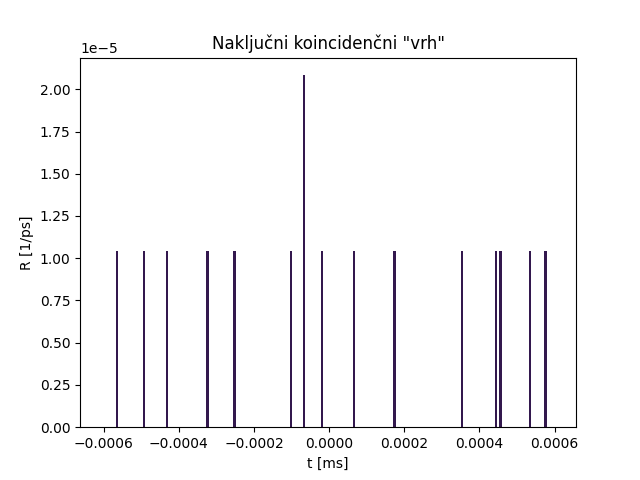
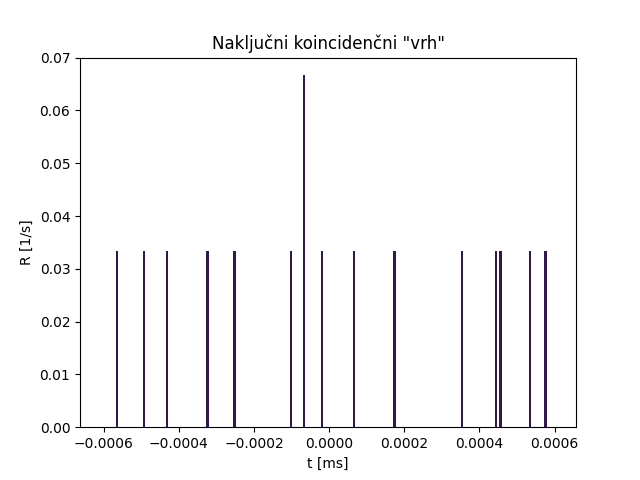
Units fix

Changed region(s): [[0.0312, 0.4375, 0.125, 0.8125], [0.0625, 0.0938, 0.1875, 0.2812], [0.0625, 0.3125, 0.125, 0.375]]

diff --git a/Gamma-Gamma/main_gg.py b/Gamma-Gamma/main_gg.py
@@ -11,7 +11,7 @@ data_TDC = np.column_stack(np.genfromtxt("loc_24-4.txt", skip_header=12))
 time_bins_tdc = data_TDC[0] / 1.0e+09
 counts_tdc = data_TDC[1]
 plt.bar(time_bins_tdc, counts_tdc, color=c1, width=(time_bins_tdc[1]-time_bins_tdc[0]))
-print(np.std(data_TDC[1]))
+# print(np.std(data_TDC[1]))
 
 plt.title(r"Časovna ločljivost TDC")
 plt.xlabel("t [ms]")
@@ -25,11 +25,11 @@ t_mes = 103.6
 time_bins = data_decay[0] / 1.0e+09  # Convert from ps to ms
 pdf = data_decay[2]
 counts = data_decay[1]
-plt.bar(time_bins, pdf, color=c1, width=0.2)
+plt.bar(time_bins, counts/t_mes, color=c1, width=0.2)
 
 plt.title(r"Radioaktivni razpad $^{22}\mathrm{Na}$")
 plt.xlabel("t [ms]")
-plt.ylabel("R [1/ps]")
+plt.ylabel("R [1/s]")
 plt.show()
 
 # Radioactive decay linear plot
@@ -40,7 +40,7 @@ def masking(x, y):
 
 newc, newt = masking(counts, time_bins)
 
-newc /= 30
+newc /= t_mes
 dnewc = np.mean(newc) + np.zeros(len(newc))
 dlog = dnewc / newc
 
@@ -62,6 +62,8 @@ plt.title(r"Lineariziran graf radioaktivnega razpada $^{22}\mathrm{Na}$")
 plt.xlabel("t [ms]")
 plt.ylabel(r"$\ln \left( \frac{\Delta p}{\Delta t}\right)$")
 plt.show()
+
+print(np.exp(fitpar[1]), np.exp(fitpar[1]) * fitcov[1][1])
 print(np.mean(counts)/t_mes)
 
 # Coincidence peaks
@@ -70,11 +72,11 @@ t_corr = data_corr[0] / 1.0e+09
 c_corr = data_corr[1]
 pde_corr = data_corr[2]
 
-plt.bar(t_corr, pde_corr, color=c1, width=(t_corr[1] - t_corr[0]))
+plt.bar(t_corr, c_corr/30, color=c1, width=(t_corr[1] - t_corr[0]))
 
 plt.title(r"Koincidenčni vrh")
 plt.xlabel("t [ms]")
-plt.ylabel("R [1/ps]")
+plt.ylabel("R [1/s]")
 plt.show()
 
 data_corr = np.column_stack(np.genfromtxt("korelacija_rand1.txt", skip_header=12))
@@ -82,11 +84,11 @@ t_corr = data_corr[0] / 1.0e+09
 c_corr = data_corr[1]
 pde_corr = data_corr[2]
 
-plt.bar(t_corr, pde_corr, color=c1, width=(t_corr[1] - t_corr[0]))
+plt.bar(t_corr, c_corr/30, color=c1, width=(t_corr[1] - t_corr[0]))
 
 plt.title("Naključni koincidenčni \"vrh\"")
 plt.xlabel("t [ms]")
-plt.ylabel("R [1/ps]")
+plt.ylabel("R [1/s]")
 plt.show()
 
 # Angle correlation of coincidence peaks
@@ -160,22 +162,22 @@ t_60 = (t_60_1 + t_60_2)/2 / 1.0e+9
 c_60 = (c_60_1 + c_60_2)/2
 p_60 = (p_60_1 + p_60_2)/2
 
-plt.bar(t_0, p_0, width=(t_0[1]-t_0[0]), label=r"$\phi = 0\degree$", color=colors[0])
-plt.bar(t_5, p_5, width=(t_5[1]-t_5[0]), label=r"$\phi = 5\degree$", color=colors[1])
-plt.bar(t_10, p_10, width=(t_10[1]-t_10[0]), label=r"$\phi = 10\degree$", color=colors[2])
-plt.bar(t_15, p_15, width=(t_15[1]-t_15[0]), label=r"$\phi = 15\degree$", color=colors[3])
-plt.bar(t_20, p_20, width=(t_20[1]-t_20[0]), label=r"$\phi = 20\degree$", color=colors[4])
-plt.bar(t_25, p_25, width=(t_25[1]-t_25[0]), label=r"$\phi = 25\degree$", color=colors[5])
-plt.bar(t_30, p_30, width=(t_30[1]-t_30[0]), label=r"$\phi = 30\degree$", color=colors[6])
-plt.bar(t_35, p_35, width=(t_35[1]-t_35[0]), label=r"$\phi = 35\degree$", color=colors[7])
-plt.bar(t_40, p_40, width=(t_40[1]-t_40[0]), label=r"$\phi = 40\degree$", color=colors[8])
-plt.bar(t_45, p_45, width=(t_45[1]-t_45[0]), label=r"$\phi = 45\degree$", color=colors[9])
-plt.bar(t_50, p_50, width=(t_50[1]-t_50[0]), label=r"$\phi = 50\degree$", color=colors[10])
-plt.bar(t_60, p_60, width=(t_60[1]-t_60[0]), label=r"$\phi = 60\degree$", color=colors[11])
+plt.bar(t_0, c_0/30, width=(t_0[1]-t_0[0]), label=r"$\phi = 0\degree$", color=colors[0])
+plt.bar(t_5, c_5/30, width=(t_5[1]-t_5[0]), label=r"$\phi = 5\degree$", color=colors[1])
+plt.bar(t_10, c_10/30, width=(t_10[1]-t_10[0]), label=r"$\phi = 10\degree$", color=colors[2])
+plt.bar(t_15, c_15/30, width=(t_15[1]-t_15[0]), label=r"$\phi = 15\degree$", color=colors[3])
+plt.bar(t_20, c_20/30, width=(t_20[1]-t_20[0]), label=r"$\phi = 20\degree$", color=colors[4])
+plt.bar(t_25, c_25/30, width=(t_25[1]-t_25[0]), label=r"$\phi = 25\degree$", color=colors[5])
+plt.bar(t_30, c_30/30, width=(t_30[1]-t_30[0]), label=r"$\phi = 30\degree$", color=colors[6])
+plt.bar(t_35, c_35/30, width=(t_35[1]-t_35[0]), label=r"$\phi = 35\degree$", color=colors[7])
+plt.bar(t_40, c_40/30, width=(t_40[1]-t_40[0]), label=r"$\phi = 40\degree$", color=colors[8])
+plt.bar(t_45, c_45/30, width=(t_45[1]-t_45[0]), label=r"$\phi = 45\degree$", color=colors[9])
+plt.bar(t_50, c_50/30, width=(t_50[1]-t_50[0]), label=r"$\phi = 50\degree$", color=colors[10])
+plt.bar(t_60, c_60/30, width=(t_60[1]-t_60[0]), label=r"$\phi = 60\degree$", color=colors[11])
 
 plt.title("Kotna korelacija koincidenčnih vrhov")
 plt.xlabel("t [ms]")
-plt.ylabel("R [1/ps]")
+plt.ylabel("R [1/s]")
 plt.legend()
 plt.show()
 
@@ -183,7 +185,7 @@ table = [c_0, c_5, c_10, c_15, c_20, c_25, c_30, c_35, c_40, c_45, c_50, c_60]
 avg_counts = [np.sum(i) for i in table]
 avg_counts_err = [np.sqrt(x) for x in avg_counts]
 angles = [0, 5, 10, 15, 20, 25, 30, 35, 40, 45, 50, 60]
-plt.errorbar(angles, avg_counts, yerr=avg_counts_err,  markersize=2, color=c2,
+plt.errorbar(angles, np.array(avg_counts), yerr=avg_counts_err,  markersize=2, color=c2,
              linestyle='None', marker="o", capsize=2, alpha=1)
 plt.plot(angles, avg_counts, c=c1, alpha=0.3)
 
